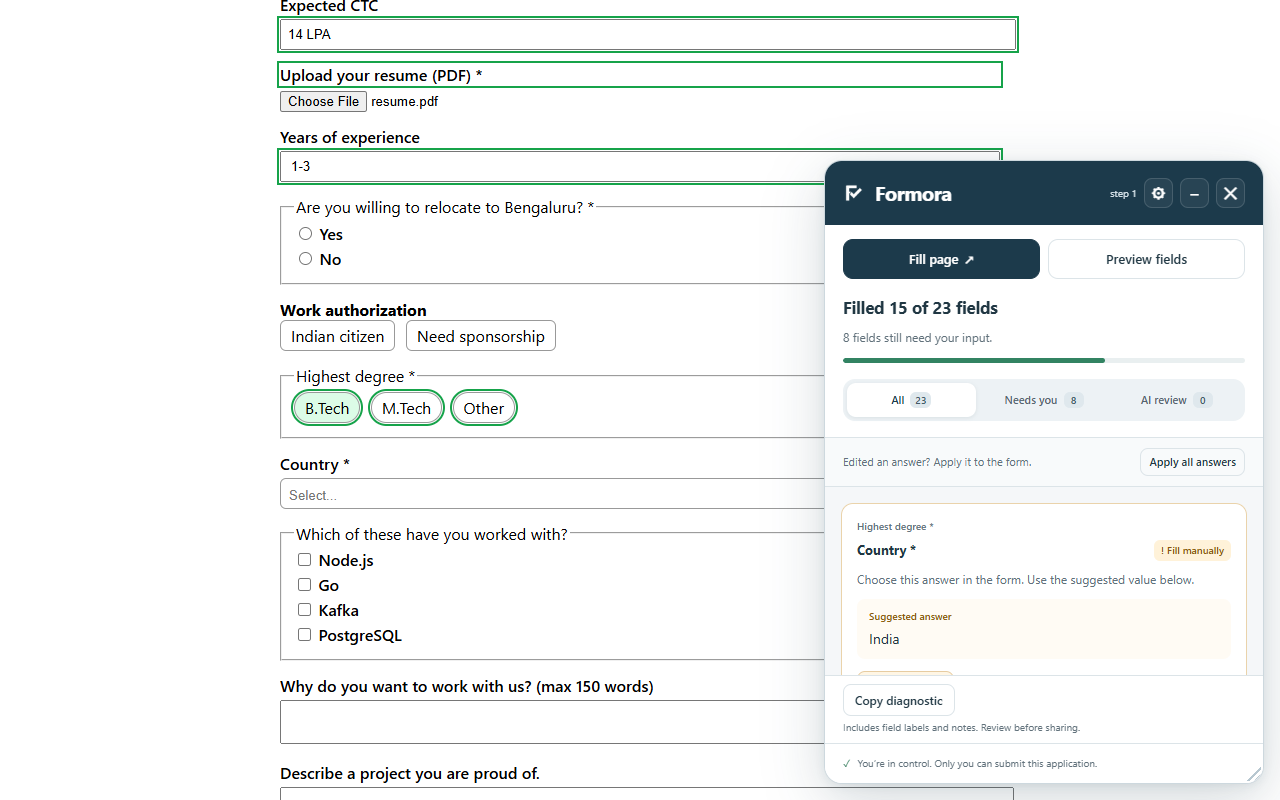
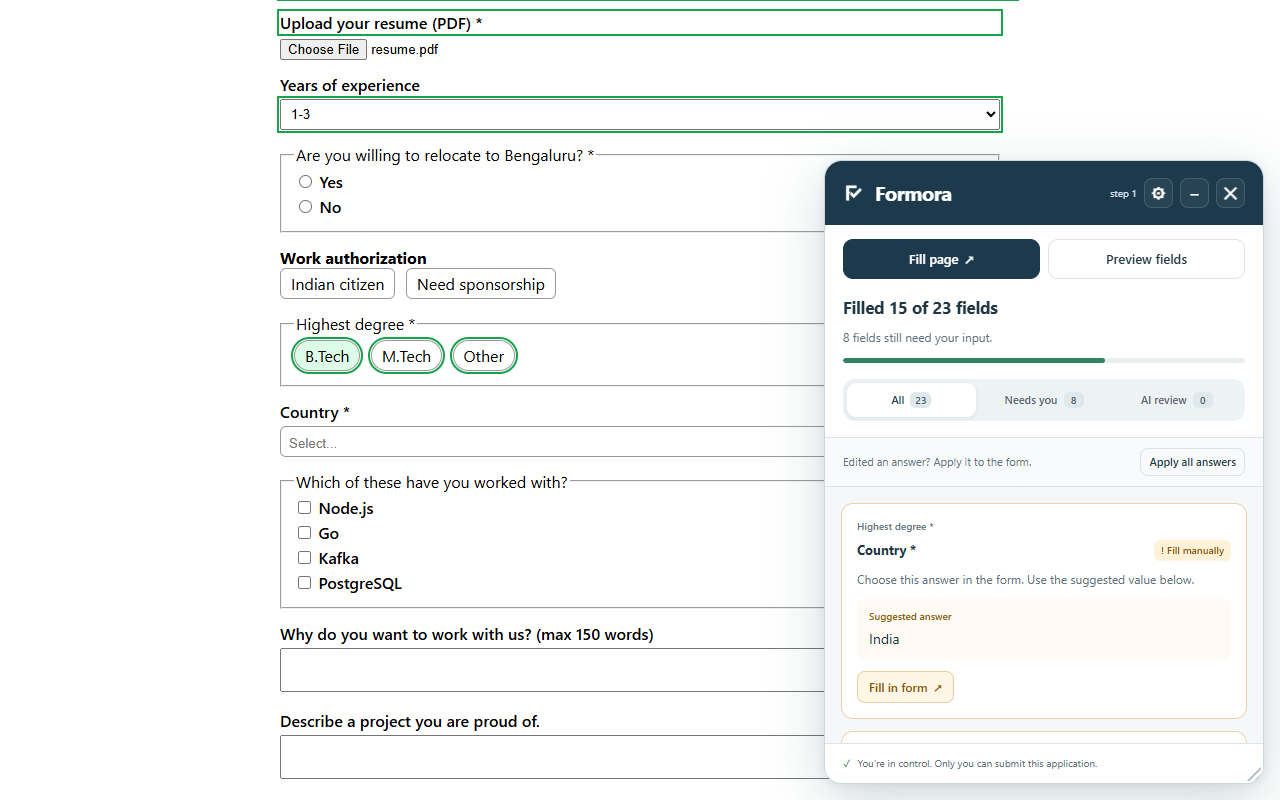
Remove diagnostics and refine native side panel behavior

Changed region(s): [[0.2188, 0.0, 0.8125, 0.8125], [0.2188, 0.8438, 0.5312, 1.0], [0.6562, 0.8438, 0.8438, 0.9688]]

diff --git a/test/e2e/features.test.js b/test/e2e/features.test.js
@@ -14,7 +14,7 @@ async function run(assets = false) {
   await new Promise((resolve) => server.listen(0, '127.0.0.1', resolve));
   let browser;
   try {
-    browser = await puppeteer.launch({ executablePath: process.env.CHROME_PATH || 'C:/Program Files/Google/Chrome/Application/chrome.exe', headless: true, pipe: true, enableExtensions: [EXT], args: ['--no-first-run', '--no-default-browser-check'] });
+    browser = await puppeteer.launch({ executablePath: process.env.CHROME_PATH || 'C:/Program Files/Google/Chrome/Application/chrome.exe', headless: true, defaultViewport: null, pipe: true, enableExtensions: [EXT], args: ['--no-first-run', '--no-default-browser-check'] });
     const target = await browser.waitForTarget((t) => t.type() === 'service_worker');
     const id = new URL(target.url()).host;
     const optionsUrl = `chrome-extension://${id}/src/options/options.html`;
@@ -84,29 +84,30 @@ async function run(assets = false) {
       } });
     });
     const page = await browser.newPage();
-    await page.setViewport({ width: 1280, height: 800 });
     const origin = `http://127.0.0.1:${server.address().port}`;
     await page.goto(origin);
     await page.waitForFunction(() => !!document.querySelector('#fn'));
+    const originalWidth = await page.evaluate(() => innerWidth);
     const appTabId = await options.evaluate(async () => {
       const tabs = await chrome.tabs.query({}); const tab = tabs.find((t) => t.url?.startsWith('http://127.0.0.1')) || tabs.at(-1);
       await chrome.tabs.sendMessage(tab.id, { type: 'FILL_PAGE' });
       return tab.id;
     });
     assert.equal(await page.$('#applypilot-root'), null, 'native mode inserts no panel in the website');
-    assert.equal(await page.evaluate(() => innerWidth), 1280, 'no content-script layout change');
+    assert.equal(await options.evaluate(() => chrome.action.getPopup({})), '', 'toolbar opens the native panel directly');
+    assert.equal(await page.evaluate(() => innerWidth), originalWidth, 'no content-script layout change');
     await page.bringToFront();
     const browserWindowId = await options.evaluate(async (id) => (await chrome.tabs.get(id)).windowId, appTabId);
     await options.evaluate((id) => chrome.windows.update(id, { left: 0, top: 0, width: 1000, height: 800 }), browserWindowId);
-    const applicationSession = await page.createCDPSession();
-    await applicationSession.send('Emulation.clearDeviceMetricsOverride');
+    await page.waitForFunction(() => outerWidth === 1000);
     const fullPageWidth = await page.evaluate(() => innerWidth);
     await options.evaluate((windowId) => chrome.sidePanel.open({ windowId }), browserWindowId);
     const nativeTarget = await browser.waitForTarget((t) => t.url().includes('/src/sidepanel/sidepanel.html'));
     const native = await nativeTarget.asPage();
     assert(native, 'browser creates a real native side-panel document');
     await native.waitForSelector('.ap-item');
-    console.log('Native browser panel viewport metrics:', fullPageWidth, await page.evaluate(() => ({ inner: innerWidth, outer: outerWidth })), await native.evaluate(() => ({ inner: innerWidth, outer: outerWidth })));
+    await page.waitForFunction((width) => innerWidth < width, {}, fullPageWidth);
+    console.log('Native browser panel resized application viewport:', fullPageWidth, '->', await page.evaluate(() => innerWidth));
     assert.equal(await page.$('#applypilot-root'), null, 'native panel never overlays the web page');
     assert((await native.$eval('.ap-status-text', (e) => e.textContent)).includes('Filled'));
     // Apply a reviewed answer across the tab-scoped connection.
@@ -116,11 +117,6 @@ async function run(assets = false) {
       item.querySelector('[data-act=apply]').click();
     });
     await page.waitForFunction(() => document.getElementById('why').value === 'I enjoy building payment systems.');
-    await native.click('[data-act=diagnostic]');
-    await native.waitForFunction(() => document.querySelector('.ap-diagnostic-preview').value.includes('extractionLog'));
-    const nativeReport = JSON.parse(await native.$eval('.ap-diagnostic-preview', (e) => e.value));
-    assert.equal(nativeReport.site, origin);
-    assert(!JSON.stringify(nativeReport).includes('asha@example.com'));
     if (assets) await native.screenshot({ path: path.join(out, 'native-panel-reference.png') });
     // Switching tabs must discard the previous application's fields and edit destination.
     const second = await browser.newPage();
@@ -150,29 +146,16 @@ async function run(assets = false) {
     await options.reload(); await options.waitForSelector('#model option');
     await options.select('#panelLayout', 'dialog'); await options.click('#save');
     await page.waitForSelector('#applypilot-root .ap-panel');
+    await options.waitForFunction(async () => (await chrome.action.getPopup({})).endsWith('/src/popup/popup.html'));
     await page.setViewport({ width: 1280, height: 800 });
     await page.bringToFront();
     if (assets) await page.screenshot({ path: path.join(out, '02-dialog.png') });
-    await browser.defaultBrowserContext().overridePermissions(origin, ['clipboard-read', 'clipboard-write']);
-    await page.click('[data-act=diagnostic]');
-    await page.waitForFunction(() => document.querySelector('.ap-diagnostic-message').textContent.startsWith('Copied'));
-    const report = await page.evaluate(() => navigator.clipboard.readText());
-    const parsed = JSON.parse(report);
-    assert(parsed.extractionLog.length > 0 && parsed.panelNotes.length > 0);
-    assert(!report.includes('asha@example.com') && !report.includes('fake-test-key') && !report.includes('backend engineer'));
-    assert(!parsed.panelNotes.some((n) => 'value' in n));
-    // Unavailable clipboard still gives a manually selectable report.
-    await browser.defaultBrowserContext().overridePermissions(origin, []);
-    await page.click('[data-act=diagnostic]');
-    await page.waitForFunction(() => !document.querySelector('.ap-diagnostic-preview').hidden);
-    assert((await page.$eval('.ap-diagnostic-preview', (e) => e.value)).includes('extractionLog'));
-    // New scan with zero fields must not export stale notes from the prior page.
+    // A scan of an empty page clears the previous results.
     await page.evaluate(() => document.querySelectorAll('body > *').forEach((e) => e.remove()));
     await options.evaluate(async (tabId) => {
       await chrome.tabs.sendMessage(tabId, { type: 'SCAN_PAGE' });
     }, appTabId);
-    await page.click('[data-act=diagnostic]');
-    await page.waitForFunction(() => JSON.parse(document.querySelector('.ap-diagnostic-preview').value).panelNotes.length === 0);
+    await page.waitForFunction(() => !document.querySelector('#applypilot-root .ap-item'));
     if (assets) {
       const promo = await browser.newPage();
       const logo = fs.readFileSync(path.join(EXT, 'icons/icon128.png')).toString('base64');
@@ -183,7 +166,7 @@ async function run(assets = false) {
       }
       fs.copyFileSync(path.join(EXT, 'icons/icon128.png'), path.join(out, 'icon128.png'));
     }
-    console.log('PASS: install onboarding, resume upload/extraction/review/save, model selection and tests, native side panel/tab switching/remote editing/dialog/settings, clipboard and fallback, diagnostic privacy and stale-state clearing' + (assets ? '; store assets generated' : ''));
+    console.log('PASS: install onboarding, resume upload/extraction/review/save, model selection and tests, native side panel/tab switching/remote editing/dialog/settings, and stale-state clearing' + (assets ? '; store assets generated' : ''));
   } finally { if (browser) await browser.close(); await new Promise((resolve) => server.close(resolve)); }
 }
 module.exports = run;

diff --git a/src/content/overlay.js b/src/content/overlay.js
@@ -35,39 +35,6 @@
     }
   }
 
-  function diagnostic() {
-    const r = root();
-    return JSON.stringify({
-      app: 'Formora', version: chrome.runtime.getManifest().version,
-      createdAt: new Date().toISOString(), site: location.origin, frame: window === window.top ? 'top' : 'embedded',
-      layout, viewport: { width: innerWidth, height: innerHeight },
-      status: JAF.redactDiagnostic(r.querySelector('.ap-status-text')?.textContent || ''),
-      applyNotes: JAF.redactDiagnostic(r.querySelector('.ap-tools-note')?.textContent || ''),
-      pageChange: r.querySelector('.ap-change')?.hidden ? '' : JAF.redactDiagnostic(r.querySelector('.ap-change')?.textContent || ''),
-      extractionLog: (JAF.diagnosticLog || []).map((entry) => ({ ...entry, message: JAF.redactDiagnostic(entry.message) })),
-      panelNotes: currentResults.map((item) => ({
-        type: item.q?.type, label: JAF.redactDiagnostic(item.q?.label || ''),
-        source: item.source, note: JAF.redactDiagnostic(item.note || ''),
-        optionCount: item.q?.options?.length,
-      })),
-    }, null, 2);
-  }
-
-  async function copyDiagnostic() {
-    const r = root(), text = JAF.getDiagnostic ? await JAF.getDiagnostic() : diagnostic();
-    const preview = r.querySelector('.ap-diagnostic-preview');
-    preview.value = text;
-    try {
-      if (!navigator.clipboard?.writeText) throw new Error('Clipboard unavailable');
-      await navigator.clipboard.writeText(text);
-      r.querySelector('.ap-diagnostic-message').textContent = 'Copied. Review the report before sharing.';
-    } catch {
-      preview.hidden = false; preview.focus(); preview.select();
-      const copied = document.execCommand('copy');
-      r.querySelector('.ap-diagnostic-message').textContent = copied ? 'Copied. Review before sharing.' : 'Select and copy the report below.';
-    }
-  }
-
   function ensureStyles(r) {
     if (nativePanel || layout === 'sidebar') return;
     // A tab can retain the previous release's injected CSS after an extension
@@ -137,7 +104,11 @@
   }
 
   function wire(r) {
-    if (nativePanel) return;
+    if (nativePanel) {
+      answerSizer = new ResizeObserver(() => r.querySelectorAll('textarea').forEach(fitAnswer));
+      answerSizer.observe(panel());
+      return;
+    }
     const head = r.querySelector('.ap-head');
     dragOn(head, r,
       () => panel().getBoundingClientRect(),
@@ -253,7 +224,6 @@
             <div class="ap-filters" role="group" aria-label="Filter answers" hidden><button data-filter="all" aria-pressed="true">All <span>0</span></button><button data-filter="attention" aria-pressed="false">Needs you <span>0</span></button><button data-filter="review" aria-pressed="false">AI review <span>0</span></button></div>
             <div class="ap-tools" hidden><span class="ap-tools-note"></span><button data-act="apply-all">Apply all answers</button></div>
             <div class="ap-list"></div>
-            <div class="ap-diagnostics"><button data-act="diagnostic">Copy diagnostic</button><span class="ap-diagnostic-message" role="status">Includes field labels and notes. Review before sharing.</span><textarea class="ap-diagnostic-preview" aria-label="Diagnostic report to copy" readonly hidden></textarea></div>
             <div class="ap-foot"><span aria-hidden="true">✓</span> You’re in control. Only you can submit this application.</div>
             <div class="ap-resize" title="Drag to resize"></div>
           </div>`;
@@ -264,9 +234,6 @@
           try { const response = await chrome.runtime.sendMessage({ type: 'OPEN_OPTIONS' }); if (!response.ok) throw new Error(response.error); }
           catch (e) { this.status('Could not open Settings: ' + e.message); }
         };
-        r.querySelector('[data-act="diagnostic"]').onclick = () => copyDiagnostic().catch(() => {
-          r.querySelector('.ap-diagnostic-message').textContent = 'Copy failed. Select the report and copy it manually.';
-        });
         r.querySelector('[data-act="min"]').onclick = () => this.minimize(!r.classList.contains('ap-min'));
         r.querySelector('[data-act="apply-all"]').onclick = () => applyAllHandler && applyAllHandler();
         r.querySelectorAll('[data-filter]').forEach((button) => { button.onclick = () => { currentFilter = button.dataset.filter; filterCards(); }; });
@@ -572,7 +539,6 @@
           await JAF.overlayReady;
           let result = { ok: true };
           if (msg.action === 'fill' || msg.action === 'scan') await JAF.run({ mode: msg.action });
-          else if (msg.action === 'diagnostic') result = { ok: true, text: diagnostic() };
           else if (msg.action === 'dismiss') { changeInfo = null; JAF.overlay.pageChanged(null); JAF.markSeen?.(true); }
           else {
             if (msg.documentToken !== documentToken || msg.version !== resultVersion || JAF.running) throw new Error('The page changed. Preview fields again before applying an answer.');
@@ -585,6 +551,7 @@
               if (!reapplyHandler || entry.source === 'manual' || entry.q.meta?.manualFill || entry.q.type === 'file') throw new Error('Fill this field directly in the form.');
               result = await reapplyHandler(entry.q, msg.value);
               entry.value = msg.value; entry.source = result.ok ? 'memory' : 'fail'; entry.note = result.note || '';
+              JAF.overlay.summary();
             } else if (msg.action === 'locate') {
               JAF.highlight(entry.q, '#1C3A4B'); element.scrollIntoView({ block: 'center' });
               element.focus({ preventScroll: true });

diff --git a/privacy.html b/privacy.html
@@ -13,13 +13,12 @@
 <h2>Google Gemini</h2>
 <p>When you choose AI resume extraction, your resume document is sent directly to Google's Gemini API. When unanswered questions need AI, Formora sends your profile, resume text, custom instructions, relevant previous answers, form questions and page context (which can include the page URL and text) to Google. Key and model tests send small test prompts. Requests use HTTPS and your API key; fallback models use the same provider.</p>
 <p>Formora requests <code>store: false</code>, which disables interaction storage for later retrieval. This does not override Google's separate data handling, safety logging or retention terms. Unpaid Gemini services may use inputs and outputs for product improvement and human review; Google's terms say not to send personal, sensitive or confidential information to unpaid services. Use a suitable paid project for personal resume data. Paid-service processing and retention remain governed by <a href="https://ai.google.dev/gemini-api/terms">Google's Gemini API terms</a> and <a href="https://policies.google.com/privacy">Google's privacy policy</a>.</p>
-<h2>Diagnostics and support</h2>
-<p>Formora keeps a bounded extraction log in memory for the current page run. Copy diagnostic writes a report to your clipboard, or shows selectable text if copying fails. Reports contain the site origin, extension version, viewport, extraction log, field labels, result states and panel notes. Answer values and resume contents are not deliberately included. The report filters known profile strings and common email, key, URL and phone patterns, but labels and notes can still contain personal information. Review and edit the report before sharing it.</p>
-<p>No report is sent automatically. If you email a report or support request to the publisher, the publisher receives what you send and uses it to respond and troubleshoot. You can request deletion of that correspondence at the contact address above.</p>
+<h2>Support</h2>
+<p>If you email a support request to the publisher, the publisher receives what you send and uses it to respond and troubleshoot. You can request deletion of that correspondence at the contact address above.</p>
 <h2>Sharing and permissions</h2>
 <p>Formora has no publisher-operated data backend, advertising or analytics service. The extension does not sell user data or transfer it for advertising. Google processes the API requests described above, and application sites receive the data you choose to fill or upload. Storage saves your setup; activeTab and scripting let the extension run its controls on the chosen page; the Google API host permission allows AI requests. The sidePanel permission hosts the review UI in the browser's own panel. Its temporary connection to the active tab carries the displayed fields, answers and explicit review actions within the extension; it is not an external upload. Content scripts across web pages support different application sites and embedded upload frames.</p>
 <h2>Your choices and deletion</h2>
-<p>Edit your profile and key in Settings and save, or clear remembered answers there. Uninstalling Formora removes its Chrome extension local storage; closing the site tab clears that tab's session state and in-memory diagnostics. Copies you put on the clipboard, send by email, submit to sites or send to Google are governed by those systems and are not removed by uninstalling. Contact the publisher about support correspondence; contact the receiving site or Google about their copies.</p>
+<p>Edit your profile and key in Settings and save, or clear remembered answers there. Uninstalling Formora removes its Chrome extension local storage; closing the site tab clears that tab's session state. Copies you send by email, submit to sites or send to Google are governed by those systems and are not removed by uninstalling. Contact the publisher about support correspondence; contact the receiving site or Google about their copies.</p>
 <h2>Changes</h2>
 <p>This policy will be updated when data handling changes. The effective date above identifies the current version. Direct privacy questions to <a href="mailto:shreyomer10@gmail.com">shreyomer10@gmail.com</a>.</p>
 </body></html>

diff --git a/src/content/util.js b/src/content/util.js
@@ -159,22 +159,5 @@
     return [];
   };
 
-  JAF.diagnosticLog = [];
-  let diagnosticSecrets = [];
-  JAF.setDiagnosticContext = (profile, resume) => {
-    const strings = (value) => typeof value === 'string' ? [value] : value && typeof value === 'object' ? Object.values(value).flatMap(strings) : [];
-    diagnosticSecrets = strings(profile).concat(resume?.fileName || '').filter((s) => s.length >= 3).sort((a, b) => b.length - a.length);
-    JAF.diagnosticLog = [];
-  };
-  JAF.redactDiagnostic = (value) => {
-    let text = String(value).replace(/AIza[\w-]+/g, '[key]').replace(/[\w.+-]+@[\w.-]+\.[a-z]{2,}/gi, '[email]')
-      .replace(/https?:\/\/[^\s)]+/gi, '[url]').replace(/\+?\d[\d ()-]{7,}\d/g, '[number]');
-    for (const secret of diagnosticSecrets) text = text.split(secret).join('[profile]');
-    return text.slice(0, 4000);
-  };
-  JAF.log = (...a) => {
-    console.log('%c[ApplyPilot]', 'color:#1c3a4b;font-weight:bold', ...a);
-    JAF.diagnosticLog.push({ time: new Date().toISOString(), message: JAF.redactDiagnostic(a.map((x) => x instanceof Error ? x.message : String(x)).join(' ')) });
-    if (JAF.diagnosticLog.length > 150) JAF.diagnosticLog.shift();
-  };
+  JAF.log = (...a) => console.log('%c[ApplyPilot]', 'color:#1c3a4b;font-weight:bold', ...a);
 })();

diff --git a/src/content/overlay.css b/src/content/overlay.css
@@ -79,8 +79,3 @@
 @keyframes ap-shine { from { background-position: 200% 0; } to { background-position: -200% 0; } }
 @media (prefers-reduced-motion: reduce) { #applypilot-root[data-formora-ui="2"] *, #applypilot-root[data-formora-ui="2"] *::before, #applypilot-root[data-formora-ui="2"] *::after { animation: none !important; transition: none !important; } }
 @media (max-width: 380px) { #applypilot-root[data-formora-ui="2"] .ap-head, #applypilot-root[data-formora-ui="2"] .ap-status { padding: 12px; } #applypilot-root[data-formora-ui="2"] .ap-list { padding: 10px; } #applypilot-root[data-formora-ui="2"] .ap-filters { padding-inline: 10px; } #applypilot-root[data-formora-ui="2"] .ap-tools { flex-wrap: wrap; padding-inline: 12px; } }
-
-#applypilot-root[data-formora-ui="2"] .ap-diagnostics { flex: none; padding: 8px 18px; border-top: 1px solid var(--ap-border); }
-#applypilot-root[data-formora-ui="2"] .ap-diagnostic-message { display: block; font-size: 10px; color: var(--ap-muted); margin-top: 4px; }
-#applypilot-root[data-formora-ui="2"] .ap-diagnostic-preview { width: 100%; height: 100px; }
-#applypilot-root[data-formora-ui="2"].ap-min .ap-diagnostics { display: none; }

diff --git a/src/sidepanel/sidepanel.js b/src/sidepanel/sidepanel.js
@@ -25,18 +25,16 @@ function request(action, data = {}) {
 }
 
 JAF.run = async ({ mode }) => {
+  const owner = binding;
   const result = await request(mode);
-  if (!result.ok) JAF.overlay.status(result.note);
+  if (owner === binding && !result.ok) JAF.overlay.status(result.note);
 };
 JAF.markSeen = () => request('dismiss');
 JAF.registry = new Map();
-JAF.highlight = (q) => request('locate', { id: q.id }).then((r) => { if (!r.ok) JAF.overlay.status(r.note); });
-JAF.getDiagnostic = async () => {
-  const r = await request('diagnostic');
-  if (!r.ok) throw new Error(r.note);
-  return r.text;
+JAF.highlight = (q) => {
+  const owner = binding;
+  return request('locate', { id: q.id }).then((r) => { if (owner === binding && !r.ok) JAF.overlay.status(r.note); });
 };
-
 function render(next) {
   const changed = !state || state.documentToken !== next.documentToken || state.version !== next.version;
   state = next;

diff --git a/src/content/main.js b/src/content/main.js
@@ -165,7 +165,6 @@
 
   async function runInner(mode) {
     const { profile, resume, settings, memory } = await loadState();
-    JAF.setDiagnosticContext(profile, resume);
     JAF.log('Starting', mode, JAF.isGForms() ? 'Google Forms extraction' : 'generic extraction');
     const results = [];
     steps += 1;

diff --git a/README.md b/README.md
@@ -81,9 +81,8 @@ test/e2e/debug.js                  fill one page and dump what was extracted
 ## Settings, support and store preparation
 
 - **Panel appearance** selects a floating dialog (default) or native browser side panel. In side-panel mode, the toolbar icon opens the browser panel and the application gets its own resized viewport. The browser controls which side and width to use. The gear opens Settings; the floating dialog also retains minimize and close controls. Dialog position/size remain remembered when switching layouts.
-- **Copy diagnostic** copies the current run's bounded extraction log, field labels, result states and panel notes, with no answer-value or resume-body fields. Known profile strings and common sensitive patterns are filtered, but review labels and notes before sharing. If clipboard access fails, a selectable report appears. Reports are never sent automatically.
 - First installation opens a four-step setup guide. Resume upload preserves unsaved settings; extraction leaves the result for review and explicit saving.
 - Publisher/support: Shrey Omer, shreyomer10@gmail.com. Privacy policy: `privacy.html`. Store copy, screenshots and promotional assets: `store/`. The preliminary name check found other Formora software: see `store/NAME-CHECK.md` before publication.
-- `npm run test:features` covers setup, settings, the native browser side panel, active-tab routing, navigation, remote edits and diagnostics in Chrome using synthetic data and mocked AI. `npm run assets` regenerates store assets. These tests do not call live Gemini or establish model availability.
+- `npm run test:features` covers setup, settings, the native browser side panel, active-tab routing, navigation, remote edits in Chrome using synthetic data and mocked AI. `npm run assets` regenerates store assets. These tests do not call live Gemini or establish model availability.
 
 The native panel requires a Chromium browser implementing `chrome.sidePanel` (Chrome 116+ for programmatic opening). On a browser without that API, select Floating dialog. There is no page-docked sidebar fallback. Side-panel updates travel over a tab-scoped extension port and are not persisted to storage.

diff --git a/store/LISTING.md b/store/LISTING.md
@@ -22,7 +22,6 @@ Formora reads application questions and fills supported fields from your saved p
 - Prepare repeated work experience, education and certification sections.
 - Review AI answers, locate manual fields and apply your edits.
 - Choose up to two fallback models and test every selected model.
-- Copy a diagnostic report when a page does not work as expected.
 
 Compatibility varies by site. Searchable dropdowns may need manual selection. AI can make mistakes: review every answer. Formora never submits applications automatically. Gemini API charges and Google's data terms apply. PDF supports AI extraction; other resume formats require pasted text.
 
